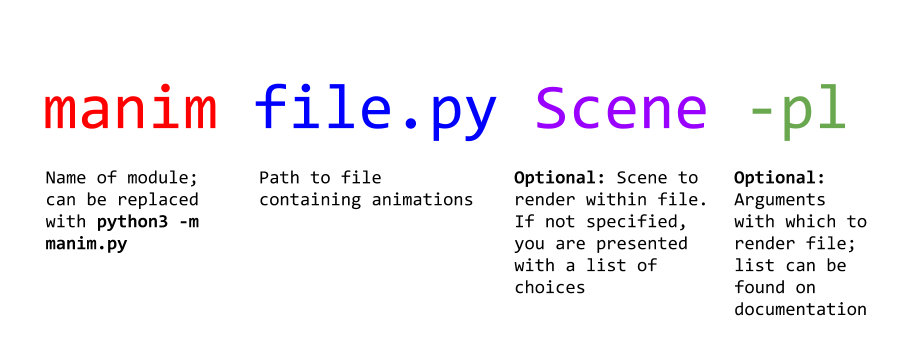
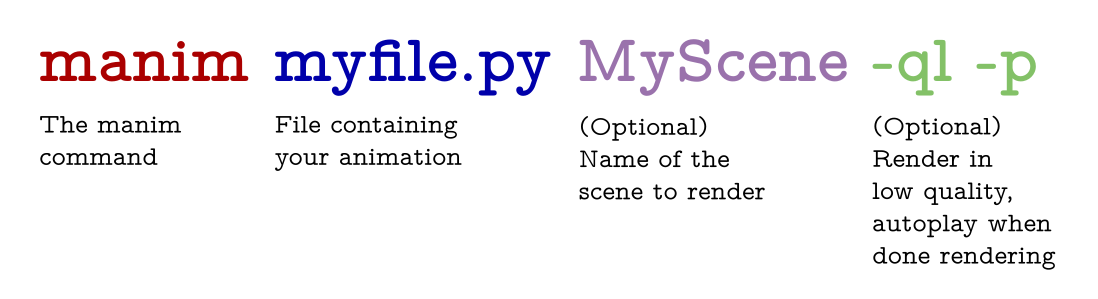
Clean up README (#586)
* Clean up README

* update flags

* Apply suggestions from code review

* updated command.png

* removed redundant files from readme-asserts and used files from docs/_static instead

* change to relative parts

diff --git a/README.md b/README.md
@@ -1,34 +1,45 @@
-![logo](https://raw.githubusercontent.com/ManimCommunity/manim/master/logo/cropped.png)
+<p align="center">
+    <img src="https://raw.githubusercontent.com/ManimCommunity/manim/master/logo/cropped.png" />
+    <br />
+    <br />
+    <img src="https://img.shields.io/badge/license-MIT-red.svg?style=flat" alt="MIT License" src="http://choosealicense.com/licenses/mit/" />
+    <img src="https://img.shields.io/reddit/subreddit-subscribers/manim.svg?color=orange&label=reddit" alt="Reddit" href="https://www.reddit.com/r/manim/" />
+    <img src="https://img.shields.io/discord/581738731934056449.svg?label=discord&color=yellow" alt="Discord" href="https://discord.gg/mMRrZQW" />
+    <img src="https://readthedocs.org/projects/manimce/badge/?version=latest" alt="Documentation Status" href="https://manimce.readthedocs.io/en/latest/?badge=latest" />
+    <img src="https://github.com/ManimCommunity/manim/workflows/CI/badge.svg" alt="CI" />
+    <br />
+    <br />
+    <i>An animation engine for explanatory math videos</i>
+</p>
 
-![CI](https://github.com/ManimCommunity/manim/workflows/CI/badge.svg)
-[![Documentation Status](https://readthedocs.org/projects/manimce/badge/?version=latest)](https://manimce.readthedocs.io/en/latest/?badge=latest)
-[![MIT License](https://img.shields.io/badge/license-MIT-blue.svg?style=flat)](http://choosealicense.com/licenses/mit/)
-[![Manim Subreddit](https://img.shields.io/reddit/subreddit-subscribers/manim.svg?color=ff4301&label=reddit)](https://www.reddit.com/r/manim/)
-[![Manim Discord](https://img.shields.io/discord/581738731934056449.svg?label=discord)](https://discord.gg/mMRrZQW)
+<hr />
 
-Manim is an animation engine for explanatory math videos. It's used to create precise animations programmatically, as seen in the videos at [3Blue1Brown](https://www.3blue1brown.com/).
+`manim` is an animation engine for explanatory math videos. It's used to create precise animations programmatically, as demonstrated in the videos of [3Blue1Brown](https://www.3blue1brown.com/).
 
-> NOTE: This repository is maintained by the Manim Community, and is not associated with Grant Sanderson or 3Blue1Brown in any way (though we are definitely indebted to him for providing his work to the world). If you want to study how Grant makes his videos, head over to his repository (3b1b/manim). This is a more frequently updated repository than that one, and is recommended if you want to use Manim for your own projects.
+> NOTE: This repository is maintained by the Manim Community, and is not associated with Grant Sanderson or 3Blue1Brown in any way (although we are definitely indebted to him for providing his work to the world). If you would like to study how Grant makes his videos, head over to his repository ([3b1b/manim](https://github.com/3b1b/manim)). This fork is updated more frequently than that his, and it's recommended to use this fork if you'd like to use Manim for your own projects.
 
 ## Table of Contents:
 
-- [Installation](#installation)
-- [Usage](#usage)
-- [Documentation](#documentation)
-- [Help with Manim](#help-with-manim)
-- [Contributing](#contributing)
-- [License](#license)
+-  [Installation](#installation)
+-  [Usage](#usage)
+-  [Documentation](#documentation)
+-  [Help with Manim](#help-with-manim)
+-  [Contributing](#contributing)
+-  [License](#license)
 
 ## Installation
 
-Manim has a few dependencies that need to be installed before it. Please visit
-the
-[documentation](https://manimce.readthedocs.io/en/latest/installation.html)
-and follow the instructions according to your operating system.
+Manim requires a few dependencies that must be installed prior to using it. Please visit the [documentation](https://manimce.readthedocs.io/en/latest/installation.html) and follow the appropriate instructions for your operating system.
+
+Once the dependencies have been installed, run the following in a terminal window:
+
+```bash
+pip install manimce
+```
 
 ## Usage
 
-Here is an example manim script:
+Manim is an extremely versatile package. The following is an example `Scene` you can construct:
 
 ```python
 from manim import *
@@ -46,34 +57,30 @@ class SquareToCircle(Scene):
         self.play(FadeOut(square))
 ```
 
-Save this code in a file called `example.py`. Now open your terminal in the
-folder where you saved the file and execute
+In order to view the output of this scene, save the code in a file called `example.py`. Then, run the following in a terminal window:
 
 ```sh
-manim example.py SquareToCircle -pl
+manim example.py SquareToCircle -p -ql
 ```
 
-You should see your video player pop up and play a simple scene where a square
-is transformed into a circle. You can find some more simple examples in the
-[GitHub repository](https://github.com/ManimCommunity/manim/tree/master/example_scenes).
-Visit the [official gallery](https://manimce.readthedocs.io/en/latest/examples.html) for more advanced examples.
+You should see your native video player program pop up and play a simple scene in which a square is transformed into a circle. You may find some more simple examples within this
+[GitHub repository](master/example_scenes). You can also visit the [official gallery](https://manimce.readthedocs.io/en/latest/examples.html) for more advanced examples.
 
 ## Command line arguments
 
 The general usage of manim is as follows:
 
-![manim-illustration](https://raw.githubusercontent.com/ManimCommunity/manim/master/readme-assets/command.png)
+![manim-illustration](docs/source/_static/command.png)
 
-The `-p` flag in the command above is for previewing, meaning the video file will automatically open when it is done rendering. The `-l` flag is for a faster rendering at a lower quality.
+The `-p` flag in the command above is for previewing, meaning the video file will automatically open when it is done rendering. The `-ql` flag is for a faster rendering at a lower quality.
 
 Some other useful flags include:
 
-- `-s` to skip to the end and just show the final frame.
-- `-n <number>` to skip ahead to the `n`'th animation of a scene.
-- `-f` show the file in the file browser.
+-  `-s` to skip to the end and just show the final frame.
+-  `-n <number>` to skip ahead to the `n`'th animation of a scene.
+-  `-f` show the file in the file browser.
 
-For a thorough list of command line arguments, visit the
-[documentation](https://manimce.readthedocs.io/en/latest/tutorials/configuration.html).
+For a thorough list of command line arguments, visit the [documentation](https://manimce.readthedocs.io/en/latest/tutorials/configuration.html).
 
 ## Documentation
 
@@ -81,21 +88,15 @@ Documentation is in progress at [ReadTheDocs](https://manimce.readthedocs.io/en/
 
 ## Help with Manim
 
-If you need help installing or using Manim, please take a look at [the Reddit
-Community](https://www.reddit.com/r/manim) or the [Discord
-Community](https://discord.gg/mMRrZQW). For bug reports and feature requests,
-please open an issue.
+If you need help installing or using Manim, feel free to reach out to our [Discord
+Server](https://discord.gg/mMRrZQW) or [Reddit Community](https://www.reddit.com/r/manim). If you would like to submit bug report or feature request, please open an issue.
 
 ## Contributing
 
-Is always welcome. In particular, there is a dire need for tests and
-documentation. For guidelines please see the
-[documentation](https://manimce.readthedocs.io/en/latest/contributing.html).
-This project uses [Poetry](https://python-poetry.org/docs/) for management. You need to have poetry installed and available in your environment.
-You can find more information about it in its [Documentation](https://manimce.readthedocs.io/en/latest/installation/for_dev.html)
+Contributions to `manim` are always welcome. In particular, there is a dire need for tests and documentation. For contribution guidelines, please see the [documentation](https://manimce.readthedocs.io/en/latest/contributing.html).
+
+This project uses [Poetry](https://python-poetry.org/docs/) for management. You must have poetry installed and available in your environment. You can learn more `poetry` and how to use it at its [Documentation](https://manimce.readthedocs.io/en/latest/installation/for_dev.html).
 
 ## License
 
-The software is double-licensed under the MIT license, with copyright
-by 3blue1brown LLC (see LICENSE), and copyright by Manim Community
-Developers (see LICENSE.community).
+The software is double-licensed under the MIT license, with copyright by 3blue1brown LLC (see LICENSE), and copyright by Manim Community Developers (see LICENSE.community).
